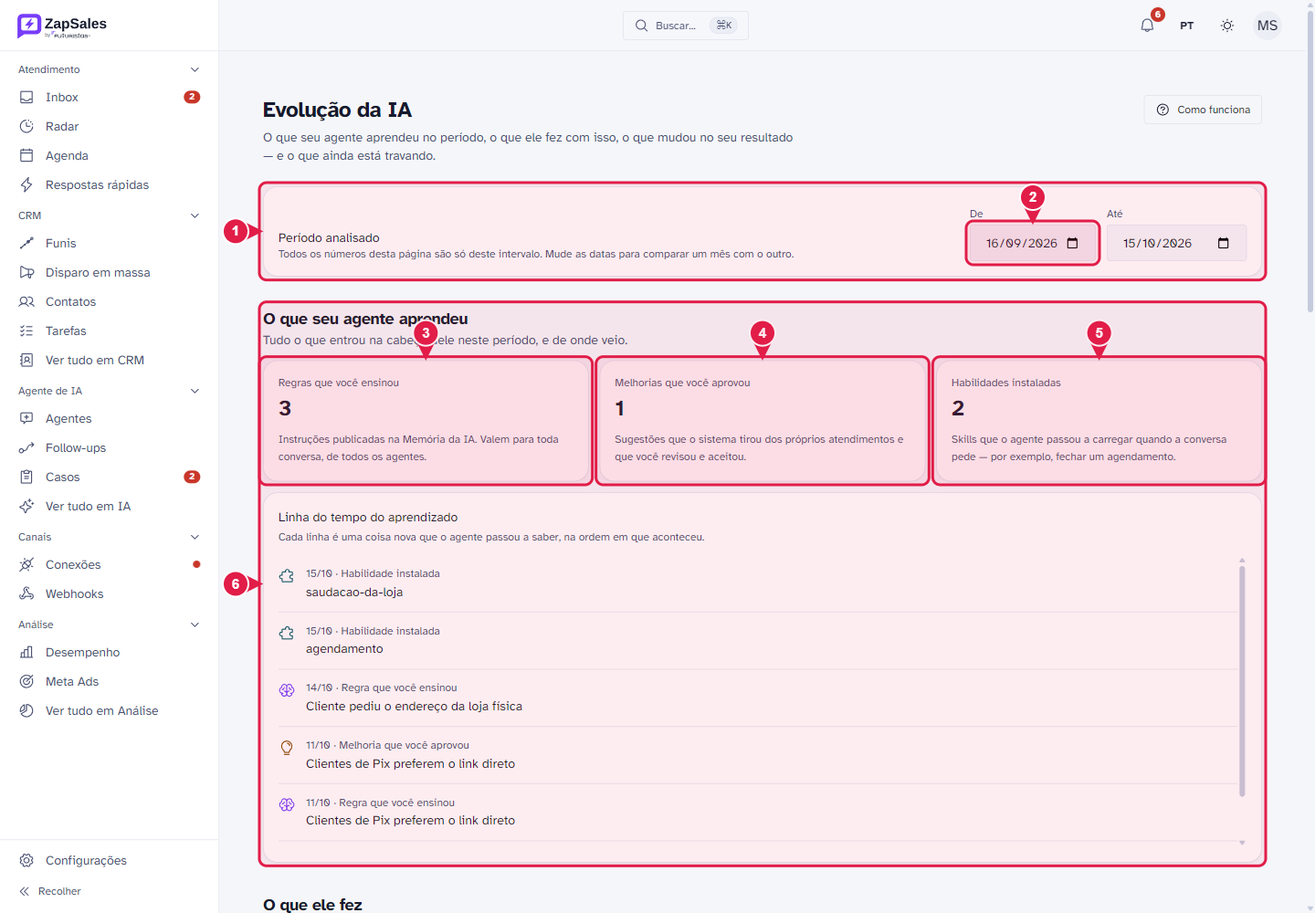
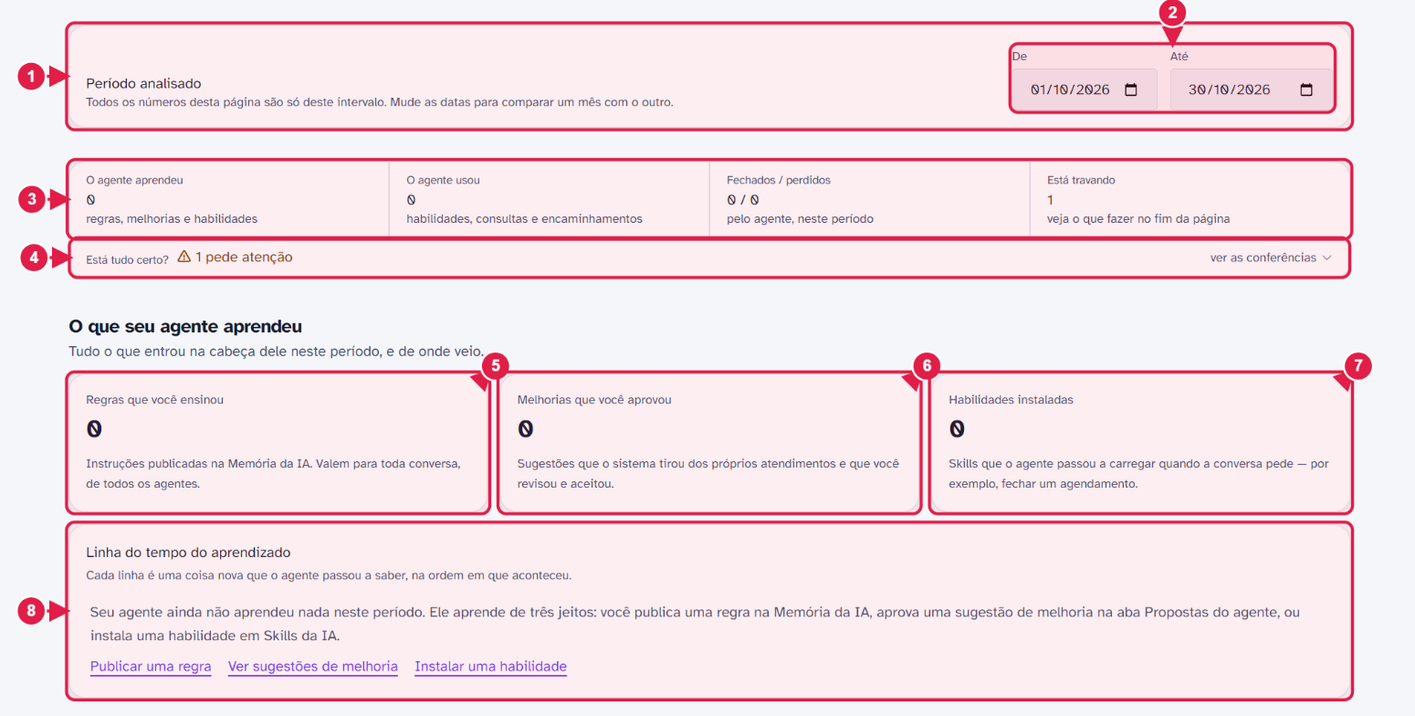
Manual: prints novos de Tipos de agendamento, Uso de IA e Evolução da IA
As três telas ganharam a faixa de resumo e o "Está tudo certo?" nos PRs #160 e
#161, mas os prints do manual eram de 15/10 e ainda mostravam as telas antigas
(o de Tipos de agendamento até se declarava "anterior ao resumo"). Prints
refeitos pela tela em produção, com o anotar.js, e legendas reescritas para
bater com os números desenhados.

- Tipos de agendamento: o alto da página (10 marcas) e as Regras da agenda (3
  marcas, novo); as outras três regras viram lista com link para as seções.
- Uso de IA: o alto da página (11 marcas); faixa amarela e gráficos viram texto.
- Evolução da IA: o alto da página com o período e a faixa (8 marcas).

index.html regerado; conferir.mjs --estrito sem defeito (63/63 telas).

Changed region(s): [[0.0, 0.0, 1.0, 1.0]]

diff --git a/docs/manual/index.html b/docs/manual/index.html
@@ -4570,23 +4570,26 @@ table.tabela{width:100%;border-collapse:collapse;margin:16px 0 24px;font-size:.9
 </ul>
 <p><strong>Está tudo certo?</strong> abre as conferências. Pedem atenção a IA parada por gasto, o gasto acima do ponto de aviso (o percentual que a própria empresa escolheu) ou do limite, e a medição incompleta. Não ter limite é uma escolha e aparece como informação. Se não houver limite e você for administrador, a faixa traz uma única <strong>recomendação</strong>, com o motivo: sem limite a IA continua respondendo mesmo se o gasto disparar. Quem não é administrador vê só o aviso de que o limite é definido por um administrador. A faixa só lê: nada é alterado sozinho.</p>
 <figure class="print">
-  <img src="img/ia-uso.png" alt="Tela Uso de IA com o cartão de orçamento mensal, os filtros, os quatro quadros de números e os gráficos, numerados de 1 a 12" loading="lazy">
-  <figcaption>Uso de IA numa organização de demonstração.</figcaption>
+  <img src="img/ia-uso.png" alt="Alto da tela Uso de IA, com a faixa de resumo, a linha Está tudo certo?, o cartão de orçamento mensal, os filtros e os quatro quadros de números, numerada de 1 a 11" loading="lazy">
+  <figcaption>O alto de Uso de IA, numa organização que ainda não gastou nada.</figcaption>
 </figure>
 <ol class="legenda">
-  <li><strong>Orçamento mensal de IA.</strong> O gasto do mês corrente, com a barra de progresso. Fica azul, amarela ao passar do percentual de aviso e vermelha ao chegar a 100%.</li>
+  <li><strong>A faixa de resumo.</strong> Quatro respostas sobre o mês: <em>Gasto do mês</em>, <em>Limite do mês</em>, <em>Proteção de gasto</em> (aqui, <em>Só acompanha</em>) e <em>Medição do gasto</em> (aqui, <em>Completa</em>).</li>
+  <li><strong>Está tudo certo?</strong> Aqui diz <em>Tudo certo</em>. <em>ver as conferências</em> abre a lista.</li>
+  <li><strong>Orçamento mensal de IA.</strong> O gasto do mês corrente, com a barra de progresso. Fica azul, amarela ao passar do percentual de aviso e vermelha ao chegar a 100%. Mostra “US$ 0,00 gastos de US$ 50,00”, mais o percentual do limite e a frase do que acontece ao chegar nele.</li>
   <li><strong>Editar limite.</strong> Só para Administrador. Veja <a href="#uso-ia--orcamento">Definir o orçamento</a>.</li>
-  <li><strong>Faixa amarela de aviso.</strong> Aparece quando algo torna o número menos confiável. Aqui: o produto ainda não sabe o preço do modelo em uso, então o gasto mostrado é <em>menor que o real</em> e a parada no limite pode não acontecer. Enquanto isso, acompanhe o gasto no painel do provedor.</li>
-  <li><strong>Gasto do mês.</strong> “US$ 1,60 gastos de US$ 5,00”, mais o percentual do limite e a frase do que acontece ao chegar nele.</li>
   <li><strong>Filtro Agente.</strong> Todos, ou um agente específico.</li>
   <li><strong>Filtro Tipo de uso.</strong> Veja o aviso abaixo.</li>
   <li><strong>De / Até.</strong> Mudam o período (por padrão, 30 dias; no máximo, 90). Os filtros ficam no endereço da página.</li>
   <li><strong>Custo no período.</strong></li>
   <li><strong>Atendimentos com IA.</strong> Na verdade, o número de <em>chamadas</em> à IA (inclusive as que falharam), não de conversas: um atendimento gera várias.</li>
   <li><strong>Passaram para uma pessoa.</strong> A proporção entre as vezes que a IA passou o atendimento para uma pessoa e as mensagens recebidas. Quanto mais alto, mais a IA precisou de ajuda.</li>
-  <li><strong>Tempo de resposta.</strong> O pior caso comum (p95), com a mediana: “a maioria responde em 4,2 s; este é o pior caso comum”.</li>
-  <li><strong>Gráficos.</strong> Quatro linhas por dia: quanto gastou (US$), volume de texto processado, tempo de resposta (a mediana e o pior caso comum) e quanto foi para uma pessoa (%).</li>
+  <li><strong>Tempo de resposta.</strong> O pior caso comum (p95), com a mediana: “a maioria responde em N s; este é o pior caso comum”.</li>
 </ol>
+<ul>
+  <li><strong>Faixa amarela de aviso.</strong> Aparece, acima dos filtros, quando algo torna o número menos confiável — por exemplo, quando o produto ainda não sabe o preço do modelo em uso: o gasto mostrado é <em>menor que o real</em> e a parada no limite pode não acontecer. Enquanto isso, acompanhe o gasto no painel do provedor.</li>
+  <li><strong>Gráficos.</strong> Abaixo dos quadros, quatro gráficos por dia: quanto gastou (US$), volume de texto processado, tempo de resposta (a mediana e o pior caso comum) e quanto foi para uma pessoa (%).</li>
+</ul>
 <aside class="nota atencao"><strong>O filtro “Tipo de uso” usa nomes técnicos antigos.</strong><p>Ele oferece nomes como <code>bot_respond</code> ou <code>sentiment_classify</code> e não inclui o tipo principal (a resposta ao cliente). Filtrar por um tipo que não tem registros mostra “Sem dados”. Se um filtro devolver vazio, volte para “Todas”.</p></aside>
 
 <h2 id="uso-ia--orcamento">Definir o orçamento</h2>
@@ -5484,12 +5487,14 @@ table.tabela{width:100%;border-collapse:collapse;margin:16px 0 24px;font-size:.9
 
 <h2 id="evolucao-ia--aprendeu">1. O que o seu agente aprendeu</h2>
 <figure class="print">
-  <img src="img/ia-evolucao-aprendeu.png" alt="Parte superior da Evolução da IA: período analisado, três cartões de aprendizado e a linha do tempo, numerados de 1 a 6" loading="lazy">
-  <figcaption>O período analisado e o bloco “O que seu agente aprendeu”.</figcaption>
+  <img src="img/ia-evolucao-aprendeu.png" alt="Parte superior da Evolução da IA: período analisado, faixa de resumo com a linha Está tudo certo?, três cartões de aprendizado e a linha do tempo, numerados de 1 a 8" loading="lazy">
+  <figcaption>O período analisado, a faixa de resumo e o bloco “O que seu agente aprendeu”.</figcaption>
 </figure>
 <ol class="legenda">
   <li><strong>Período analisado.</strong> Define o intervalo de todos os números abaixo.</li>
   <li><strong>De / Até.</strong> As datas do período.</li>
+  <li><strong>A faixa de resumo.</strong> Quatro números do período: <em>O agente aprendeu</em>, <em>O agente usou</em>, <em>Fechados / perdidos</em> e <em>Está travando</em> (aqui, 1).</li>
+  <li><strong>Está tudo certo?</strong> Aqui pede atenção, porque há uma lacuna, e leva ao bloco <em>O que está travando</em>. <em>ver as conferências</em> abre a lista.</li>
   <li><strong>Regras que você ensinou.</strong> Quantas instruções foram publicadas na <a href="#memoria">Memória da IA</a> (conta também os aprendizados, de qualquer situação, criados no período).</li>
   <li><strong>Melhorias que você aprovou.</strong> Sugestões que o sistema tirou dos próprios atendimentos e que você revisou e aceitou.</li>
   <li><strong>Habilidades instaladas.</strong> <a href="#skills">Skills</a> instaladas ou atualizadas no período.</li>
@@ -6131,20 +6136,36 @@ table.tabela{width:100%;border-collapse:collapse;margin:16px 0 24px;font-size:.9
 <p>As cinco seções de regras (agendas Google, confirmação de presença, clientes pela agenda, agenda dos colegas e dias fora da rotina) ficam <strong>abaixo da lista</strong>, sob o título <strong>Regras da agenda</strong>: valem para a agenda inteira, não para um tipo só.</p>
 
 <figure class="print">
-  <img src="img/tipos-de-agendamento.png" alt="Tela Tipos de agendamento com as seções Suas agendas Google, Confirmação de presença, Clientes pela agenda, Agenda dos colegas, Dias fora da rotina e a lista de tipos, numerada de 1 a 9" loading="lazy">
-  <figcaption>Tipos de agendamento (imagem anterior ao resumo no alto): hoje a faixa e a lista de tipos vêm primeiro, e as cinco seções de regras ficam abaixo, em <strong>Regras da agenda</strong>.</figcaption>
+  <img src="img/tipos-de-agendamento.png" alt="Alto da tela Tipos de agendamento, com a faixa de resumo, a linha Está tudo certo?, a recomendação, o botão Novo tipo de agendamento, a lista de tipos e o título Regras da agenda, numerada de 1 a 10" loading="lazy">
+  <figcaption>O alto de Tipos de agendamento: a faixa de resumo e a lista de tipos.</figcaption>
 </figure>
 <ol class="legenda">
-  <li><strong>Suas agendas Google.</strong> Só para quem tem conta do Google conectada. Para cada conta, escolha quais agendas contam como “ocupado” e em qual delas os novos compromissos são publicados. Sem conexão, a seção só mostra o link <em>Conecte sua conta pela Agenda</em>. Veja <a href="#tipos-de-agendamento--google">abaixo</a>.</li>
-  <li><strong>Confirmação de presença.</strong> Três prazos, em minutos. Veja <a href="#tipos-de-agendamento--presenca">abaixo</a>.</li>
-  <li><strong>Clientes pela agenda.</strong> Um interruptor, desligado por padrão: “Quem tem horário marcado vira cliente”.</li>
-  <li><strong>Agenda dos colegas.</strong> Um interruptor, ligado por padrão: “Atendentes podem mexer na agenda dos colegas”.</li>
-  <li><strong>Dias fora da rotina.</strong> Feche um dia (feriado, férias) ou abra um dia que a jornada semanal não cobre.</li>
+  <li><strong>Como funciona.</strong> Painel de ajuda.</li>
+  <li><strong>A faixa de resumo.</strong> Quatro números: <em>Tipos ativos</em>, <em>Prontos para marcar</em>, <em>Pedem ajuste</em> e <em>Avisam o cliente</em>. Neste exemplo, os três tipos que toda organização nova traz estão ativos, nenhum está pronto e os três pedem ajuste.</li>
+  <li><strong>Está tudo certo?</strong> Aqui pede atenção: os responsáveis ainda não publicaram horários de atendimento. <em>ver as conferências</em> abre a lista, com o atalho <em>Abrir Equipe › Atendimento</em>.</li>
+  <li><strong>A recomendação.</strong> Uma só, com o motivo: ligar o aviso ao cliente. Ela some quando todo tipo ativo já avisa.</li>
   <li><strong>Novo tipo de agendamento.</strong> Abre o formulário de criação.</li>
-  <li><strong>A lista de tipos.</strong> Cada linha mostra o nome, o selo da categoria, a duração e o local.</li>
+  <li><strong>Um tipo da lista.</strong> Cada linha mostra o nome, o selo da categoria, a duração, o local e a situação do tipo.</li>
+  <li><strong>A situação do tipo.</strong> Aqui, “responsável sem horários publicados — publicar”, um link para Equipe › Atendimento.</li>
   <li><strong>Editar.</strong> Abre o formulário de edição dentro da própria linha.</li>
   <li><strong>Desativar.</strong> Tira o tipo da tela de marcar sem apagá-lo. Um tipo desativado vira <em>Reativar</em>.</li>
+  <li><strong>Regras da agenda.</strong> As regras que valem para a agenda inteira ficam abaixo da lista.</li>
 </ol>
+<figure class="print">
+  <img src="img/tipos-de-agendamento-regras.png" alt="Seção Regras da agenda da tela Tipos de agendamento, com os cartões Suas agendas Google e Confirmação de presença, numerada de 1 a 3" loading="lazy">
+  <figcaption>As Regras da agenda: as duas primeiras seções.</figcaption>
+</figure>
+<ol class="legenda">
+  <li><strong>Regras da agenda.</strong> Valem para a agenda inteira, não para um tipo só.</li>
+  <li><strong>Suas agendas Google.</strong> Só para quem tem conta do Google conectada. Para cada conta, escolha quais agendas contam como “ocupado” e em qual delas os novos compromissos são publicados. Sem conexão, a seção só mostra o link <em>Conecte sua conta pela Agenda</em>. Veja <a href="#tipos-de-agendamento--google">abaixo</a>.</li>
+  <li><strong>Confirmação de presença.</strong> Três prazos, em minutos, e o botão <span class="ui">Salvar prazos</span>. Veja <a href="#tipos-de-agendamento--presenca">abaixo</a>.</li>
+</ol>
+<p>Mais abaixo, na mesma área, ficam as outras três regras:</p>
+<ul>
+  <li><strong>Clientes pela agenda.</strong> Um interruptor, desligado por padrão: “Quem tem horário marcado vira cliente”. Veja <a href="#tipos-de-agendamento--clientes">abaixo</a>.</li>
+  <li><strong>Agenda dos colegas.</strong> Um interruptor, ligado por padrão: “Atendentes podem mexer na agenda dos colegas”. Veja <a href="#tipos-de-agendamento--colegas">abaixo</a>.</li>
+  <li><strong>Dias fora da rotina.</strong> Feche um dia (feriado, férias) ou abra um dia que a jornada semanal não cobre. Veja <a href="#tipos-de-agendamento--dias">abaixo</a>.</li>
+</ul>
 
 <h2 id="tipos-de-agendamento--tipos">Criar e editar um tipo</h2>
 <figure class="print">
@@ -7882,7 +7903,7 @@ table.tabela{width:100%;border-collapse:collapse;margin:16px 0 24px;font-size:.9
 <aside class="nota atencao"><strong>Instalar é para sempre.</strong><p>Cria as tabelas do módulo no banco compartilhado (um banco só, esquema <code>public</code>), de forma idempotente, e fica na auditoria (<code>modulo.instalado</code>). <strong>A tela não desinstala nem suspende</strong>; considere a ação irreversível pela interface. Depois de instalado, cada empresa vê a porta do módulo (veja <a href="#honorarios">Honorários</a>). <em>Esta instalação não foi acionada nas capturas.</em> Quem não é o dono do servidor recebe: “Só o administrador da instalação pode gerenciar os pacotes disponíveis.”</p></aside>
   </div>
 </article>
-    <footer class="rodape"><div class="rodape-marca"><svg class="simbolo" viewBox="0 0 216 216" aria-hidden="true"><use href="#lg-simbolo"/></svg><strong>ZapSales</strong><span>by</span><svg class="fut" viewBox="0 0 654 115" role="img" aria-label="Futuristas"><use href="#lg-futuristas" width="654" height="115"/></svg></div>Manual do ZapSales · gerado em 30 de outubro de 2026 a partir do código na revisão <code>8c1c2df</code>. Os prints vêm de uma organização de demonstração, com dados fictícios.</footer>
+    <footer class="rodape"><div class="rodape-marca"><svg class="simbolo" viewBox="0 0 216 216" aria-hidden="true"><use href="#lg-simbolo"/></svg><strong>ZapSales</strong><span>by</span><svg class="fut" viewBox="0 0 654 115" role="img" aria-label="Futuristas"><use href="#lg-futuristas" width="654" height="115"/></svg></div>Manual do ZapSales · gerado em 30 de outubro de 2026 a partir do código na revisão <code>da96ada</code>. Os prints vêm de uma organização de demonstração, com dados fictícios.</footer>
   </main>
   <aside class="nesta-pagina" id="toc-local" aria-label="Nesta página"></aside>
 </div>

diff --git a/docs/manual/conteudo/organizacao/tipos-de-agendamento.html b/docs/manual/conteudo/organizacao/tipos-de-agendamento.html
@@ -18,20 +18,36 @@
 <p>As cinco seções de regras (agendas Google, confirmação de presença, clientes pela agenda, agenda dos colegas e dias fora da rotina) ficam <strong>abaixo da lista</strong>, sob o título <strong>Regras da agenda</strong>: valem para a agenda inteira, não para um tipo só.</p>
 
 <figure class="print">
-  <img src="img/tipos-de-agendamento.png" alt="Tela Tipos de agendamento com as seções Suas agendas Google, Confirmação de presença, Clientes pela agenda, Agenda dos colegas, Dias fora da rotina e a lista de tipos, numerada de 1 a 9" loading="lazy">
-  <figcaption>Tipos de agendamento (imagem anterior ao resumo no alto): hoje a faixa e a lista de tipos vêm primeiro, e as cinco seções de regras ficam abaixo, em <strong>Regras da agenda</strong>.</figcaption>
+  <img src="img/tipos-de-agendamento.png" alt="Alto da tela Tipos de agendamento, com a faixa de resumo, a linha Está tudo certo?, a recomendação, o botão Novo tipo de agendamento, a lista de tipos e o título Regras da agenda, numerada de 1 a 10" loading="lazy">
+  <figcaption>O alto de Tipos de agendamento: a faixa de resumo e a lista de tipos.</figcaption>
 </figure>
 <ol class="legenda">
-  <li><strong>Suas agendas Google.</strong> Só para quem tem conta do Google conectada. Para cada conta, escolha quais agendas contam como “ocupado” e em qual delas os novos compromissos são publicados. Sem conexão, a seção só mostra o link <em>Conecte sua conta pela Agenda</em>. Veja <a href="#tipos-de-agendamento--google">abaixo</a>.</li>
-  <li><strong>Confirmação de presença.</strong> Três prazos, em minutos. Veja <a href="#tipos-de-agendamento--presenca">abaixo</a>.</li>
-  <li><strong>Clientes pela agenda.</strong> Um interruptor, desligado por padrão: “Quem tem horário marcado vira cliente”.</li>
-  <li><strong>Agenda dos colegas.</strong> Um interruptor, ligado por padrão: “Atendentes podem mexer na agenda dos colegas”.</li>
-  <li><strong>Dias fora da rotina.</strong> Feche um dia (feriado, férias) ou abra um dia que a jornada semanal não cobre.</li>
+  <li><strong>Como funciona.</strong> Painel de ajuda.</li>
+  <li><strong>A faixa de resumo.</strong> Quatro números: <em>Tipos ativos</em>, <em>Prontos para marcar</em>, <em>Pedem ajuste</em> e <em>Avisam o cliente</em>. Neste exemplo, os três tipos que toda organização nova traz estão ativos, nenhum está pronto e os três pedem ajuste.</li>
+  <li><strong>Está tudo certo?</strong> Aqui pede atenção: os responsáveis ainda não publicaram horários de atendimento. <em>ver as conferências</em> abre a lista, com o atalho <em>Abrir Equipe › Atendimento</em>.</li>
+  <li><strong>A recomendação.</strong> Uma só, com o motivo: ligar o aviso ao cliente. Ela some quando todo tipo ativo já avisa.</li>
   <li><strong>Novo tipo de agendamento.</strong> Abre o formulário de criação.</li>
-  <li><strong>A lista de tipos.</strong> Cada linha mostra o nome, o selo da categoria, a duração e o local.</li>
+  <li><strong>Um tipo da lista.</strong> Cada linha mostra o nome, o selo da categoria, a duração, o local e a situação do tipo.</li>
+  <li><strong>A situação do tipo.</strong> Aqui, “responsável sem horários publicados — publicar”, um link para Equipe › Atendimento.</li>
   <li><strong>Editar.</strong> Abre o formulário de edição dentro da própria linha.</li>
   <li><strong>Desativar.</strong> Tira o tipo da tela de marcar sem apagá-lo. Um tipo desativado vira <em>Reativar</em>.</li>
+  <li><strong>Regras da agenda.</strong> As regras que valem para a agenda inteira ficam abaixo da lista.</li>
 </ol>
+<figure class="print">
+  <img src="img/tipos-de-agendamento-regras.png" alt="Seção Regras da agenda da tela Tipos de agendamento, com os cartões Suas agendas Google e Confirmação de presença, numerada de 1 a 3" loading="lazy">
+  <figcaption>As Regras da agenda: as duas primeiras seções.</figcaption>
+</figure>
+<ol class="legenda">
+  <li><strong>Regras da agenda.</strong> Valem para a agenda inteira, não para um tipo só.</li>
+  <li><strong>Suas agendas Google.</strong> Só para quem tem conta do Google conectada. Para cada conta, escolha quais agendas contam como “ocupado” e em qual delas os novos compromissos são publicados. Sem conexão, a seção só mostra o link <em>Conecte sua conta pela Agenda</em>. Veja <a href="#tipos-de-agendamento--google">abaixo</a>.</li>
+  <li><strong>Confirmação de presença.</strong> Três prazos, em minutos, e o botão <span class="ui">Salvar prazos</span>. Veja <a href="#tipos-de-agendamento--presenca">abaixo</a>.</li>
+</ol>
+<p>Mais abaixo, na mesma área, ficam as outras três regras:</p>
+<ul>
+  <li><strong>Clientes pela agenda.</strong> Um interruptor, desligado por padrão: “Quem tem horário marcado vira cliente”. Veja <a href="#tipos-de-agendamento--clientes">abaixo</a>.</li>
+  <li><strong>Agenda dos colegas.</strong> Um interruptor, ligado por padrão: “Atendentes podem mexer na agenda dos colegas”. Veja <a href="#tipos-de-agendamento--colegas">abaixo</a>.</li>
+  <li><strong>Dias fora da rotina.</strong> Feche um dia (feriado, férias) ou abra um dia que a jornada semanal não cobre. Veja <a href="#tipos-de-agendamento--dias">abaixo</a>.</li>
+</ul>
 
 <h2 id="tipos">Criar e editar um tipo</h2>
 <figure class="print">

diff --git a/docs/manual/conteudo/ia/uso.html b/docs/manual/conteudo/ia/uso.html
@@ -11,23 +11,26 @@
 </ul>
 <p><strong>Está tudo certo?</strong> abre as conferências. Pedem atenção a IA parada por gasto, o gasto acima do ponto de aviso (o percentual que a própria empresa escolheu) ou do limite, e a medição incompleta. Não ter limite é uma escolha e aparece como informação. Se não houver limite e você for administrador, a faixa traz uma única <strong>recomendação</strong>, com o motivo: sem limite a IA continua respondendo mesmo se o gasto disparar. Quem não é administrador vê só o aviso de que o limite é definido por um administrador. A faixa só lê: nada é alterado sozinho.</p>
 <figure class="print">
-  <img src="img/ia-uso.png" alt="Tela Uso de IA com o cartão de orçamento mensal, os filtros, os quatro quadros de números e os gráficos, numerados de 1 a 12" loading="lazy">
-  <figcaption>Uso de IA numa organização de demonstração.</figcaption>
+  <img src="img/ia-uso.png" alt="Alto da tela Uso de IA, com a faixa de resumo, a linha Está tudo certo?, o cartão de orçamento mensal, os filtros e os quatro quadros de números, numerada de 1 a 11" loading="lazy">
+  <figcaption>O alto de Uso de IA, numa organização que ainda não gastou nada.</figcaption>
 </figure>
 <ol class="legenda">
-  <li><strong>Orçamento mensal de IA.</strong> O gasto do mês corrente, com a barra de progresso. Fica azul, amarela ao passar do percentual de aviso e vermelha ao chegar a 100%.</li>
+  <li><strong>A faixa de resumo.</strong> Quatro respostas sobre o mês: <em>Gasto do mês</em>, <em>Limite do mês</em>, <em>Proteção de gasto</em> (aqui, <em>Só acompanha</em>) e <em>Medição do gasto</em> (aqui, <em>Completa</em>).</li>
+  <li><strong>Está tudo certo?</strong> Aqui diz <em>Tudo certo</em>. <em>ver as conferências</em> abre a lista.</li>
+  <li><strong>Orçamento mensal de IA.</strong> O gasto do mês corrente, com a barra de progresso. Fica azul, amarela ao passar do percentual de aviso e vermelha ao chegar a 100%. Mostra “US$ 0,00 gastos de US$ 50,00”, mais o percentual do limite e a frase do que acontece ao chegar nele.</li>
   <li><strong>Editar limite.</strong> Só para Administrador. Veja <a href="#uso-ia--orcamento">Definir o orçamento</a>.</li>
-  <li><strong>Faixa amarela de aviso.</strong> Aparece quando algo torna o número menos confiável. Aqui: o produto ainda não sabe o preço do modelo em uso, então o gasto mostrado é <em>menor que o real</em> e a parada no limite pode não acontecer. Enquanto isso, acompanhe o gasto no painel do provedor.</li>
-  <li><strong>Gasto do mês.</strong> “US$ 1,60 gastos de US$ 5,00”, mais o percentual do limite e a frase do que acontece ao chegar nele.</li>
   <li><strong>Filtro Agente.</strong> Todos, ou um agente específico.</li>
   <li><strong>Filtro Tipo de uso.</strong> Veja o aviso abaixo.</li>
   <li><strong>De / Até.</strong> Mudam o período (por padrão, 30 dias; no máximo, 90). Os filtros ficam no endereço da página.</li>
   <li><strong>Custo no período.</strong></li>
   <li><strong>Atendimentos com IA.</strong> Na verdade, o número de <em>chamadas</em> à IA (inclusive as que falharam), não de conversas: um atendimento gera várias.</li>
   <li><strong>Passaram para uma pessoa.</strong> A proporção entre as vezes que a IA passou o atendimento para uma pessoa e as mensagens recebidas. Quanto mais alto, mais a IA precisou de ajuda.</li>
-  <li><strong>Tempo de resposta.</strong> O pior caso comum (p95), com a mediana: “a maioria responde em 4,2 s; este é o pior caso comum”.</li>
-  <li><strong>Gráficos.</strong> Quatro linhas por dia: quanto gastou (US$), volume de texto processado, tempo de resposta (a mediana e o pior caso comum) e quanto foi para uma pessoa (%).</li>
+  <li><strong>Tempo de resposta.</strong> O pior caso comum (p95), com a mediana: “a maioria responde em N s; este é o pior caso comum”.</li>
 </ol>
+<ul>
+  <li><strong>Faixa amarela de aviso.</strong> Aparece, acima dos filtros, quando algo torna o número menos confiável — por exemplo, quando o produto ainda não sabe o preço do modelo em uso: o gasto mostrado é <em>menor que o real</em> e a parada no limite pode não acontecer. Enquanto isso, acompanhe o gasto no painel do provedor.</li>
+  <li><strong>Gráficos.</strong> Abaixo dos quadros, quatro gráficos por dia: quanto gastou (US$), volume de texto processado, tempo de resposta (a mediana e o pior caso comum) e quanto foi para uma pessoa (%).</li>
+</ul>
 <aside class="nota atencao"><strong>O filtro “Tipo de uso” usa nomes técnicos antigos.</strong><p>Ele oferece nomes como <code>bot_respond</code> ou <code>sentiment_classify</code> e não inclui o tipo principal (a resposta ao cliente). Filtrar por um tipo que não tem registros mostra “Sem dados”. Se um filtro devolver vazio, volte para “Todas”.</p></aside>
 
 <h2 id="orcamento">Definir o orçamento</h2>

diff --git a/docs/manual/conteudo/ia/evolucao.html b/docs/manual/conteudo/ia/evolucao.html
@@ -10,12 +10,14 @@
 
 <h2 id="aprendeu">1. O que o seu agente aprendeu</h2>
 <figure class="print">
-  <img src="img/ia-evolucao-aprendeu.png" alt="Parte superior da Evolução da IA: período analisado, três cartões de aprendizado e a linha do tempo, numerados de 1 a 6" loading="lazy">
-  <figcaption>O período analisado e o bloco “O que seu agente aprendeu”.</figcaption>
+  <img src="img/ia-evolucao-aprendeu.png" alt="Parte superior da Evolução da IA: período analisado, faixa de resumo com a linha Está tudo certo?, três cartões de aprendizado e a linha do tempo, numerados de 1 a 8" loading="lazy">
+  <figcaption>O período analisado, a faixa de resumo e o bloco “O que seu agente aprendeu”.</figcaption>
 </figure>
 <ol class="legenda">
   <li><strong>Período analisado.</strong> Define o intervalo de todos os números abaixo.</li>
   <li><strong>De / Até.</strong> As datas do período.</li>
+  <li><strong>A faixa de resumo.</strong> Quatro números do período: <em>O agente aprendeu</em>, <em>O agente usou</em>, <em>Fechados / perdidos</em> e <em>Está travando</em> (aqui, 1).</li>
+  <li><strong>Está tudo certo?</strong> Aqui pede atenção, porque há uma lacuna, e leva ao bloco <em>O que está travando</em>. <em>ver as conferências</em> abre a lista.</li>
   <li><strong>Regras que você ensinou.</strong> Quantas instruções foram publicadas na <a href="#memoria">Memória da IA</a> (conta também os aprendizados, de qualquer situação, criados no período).</li>
   <li><strong>Melhorias que você aprovou.</strong> Sugestões que o sistema tirou dos próprios atendimentos e que você revisou e aceitou.</li>
   <li><strong>Habilidades instaladas.</strong> <a href="#skills">Skills</a> instaladas ou atualizadas no período.</li>
